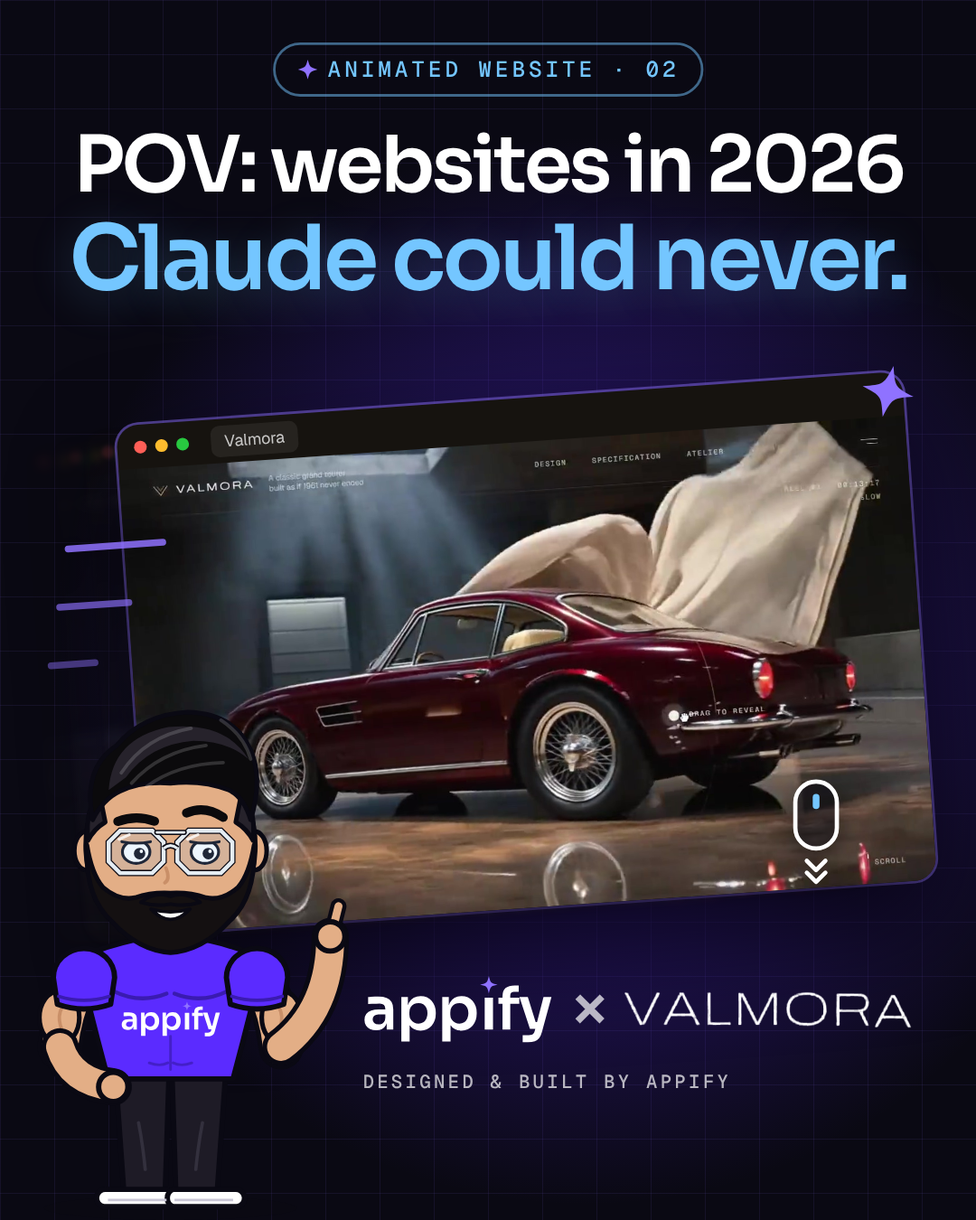
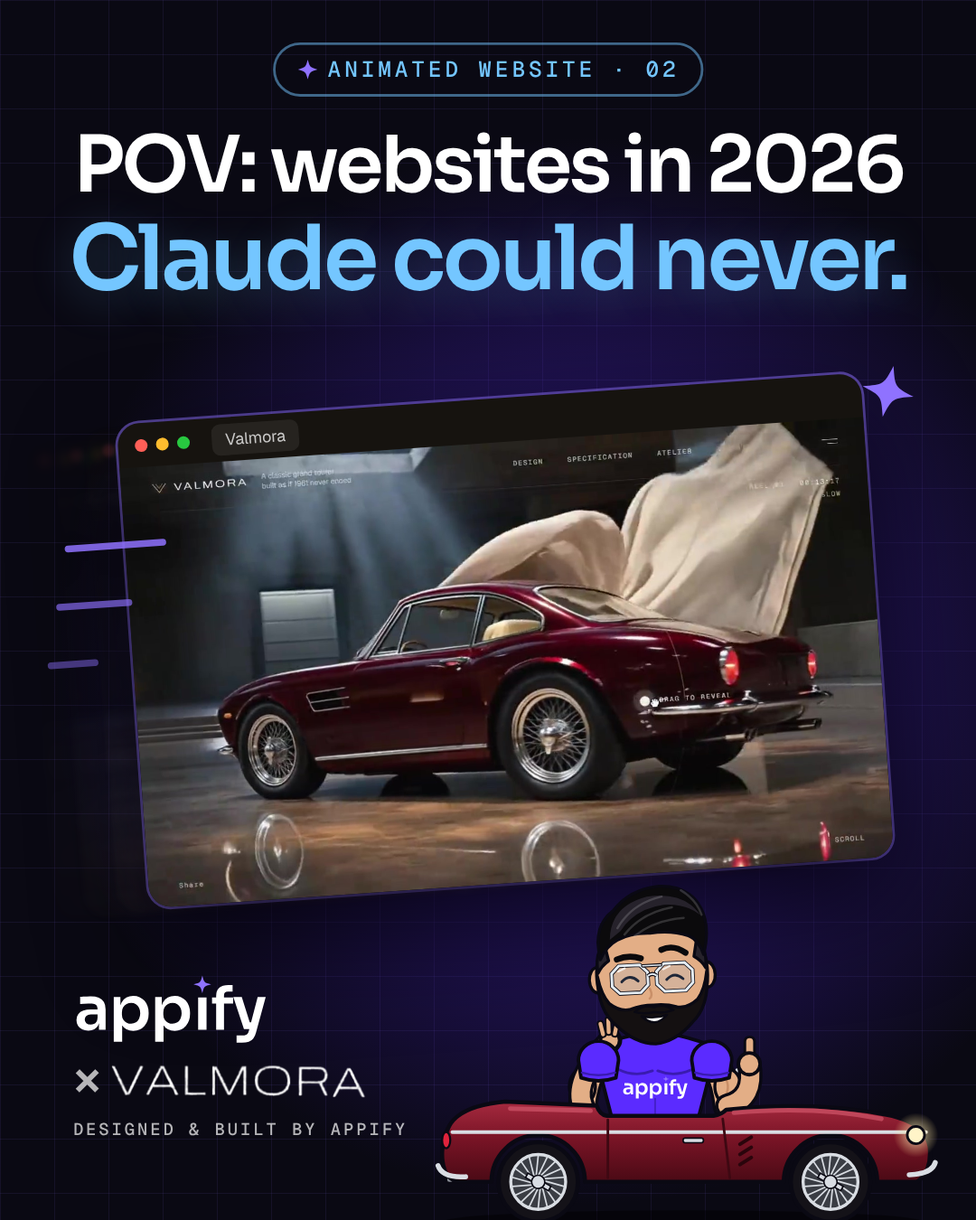
Valmora reel: Dev drives in, $10,000-look punchline
Replace the cloth-unveil ending with Dev screeching in a cartoon classic spider and
'Looks like $10,000. Costs from $500.'; Dev in the car on the thumbnails too.

Claude-Session: https://claude.ai/code/session_01J8CdFv3swMV9cdtzd73STo

Changed region(s): [[0.0306, 0.28, 0.9778, 0.9956]]

diff --git a/appify-classiccars/src/Main.jsx b/appify-classiccars/src/Main.jsx
@@ -1,11 +1,12 @@
 // "POV: websites in 2026 / Claude could never do this." Silent (the user adds trending audio in-app). The user's screen recording of the Valmora site.
-// One idea: the unveil. The car sits under its cover through the hook, the cover comes off on the drop, every section gets
-// one bar with a punch-in. Then the window pulls back, a cover falls over it, and on the end card the cover whips off the price.
+// The car sits under its cover through the hook, the cover comes off on the drop, every section gets one bar with a punch-in.
+// Then the window pulls back ("websites that look like they cost $10,000"), Dev screeches in driving a classic spider,
+// and the punchline lands: "costs from $500", DM "ANIMATED WEBSITE".
 import { AbsoluteFill, Img, interpolate, spring, staticFile, useCurrentFrame, useVideoConfig, Easing } from "remotion";
 import { SRC_FRAMES, DROP, STATEMENT, END, MAP, SECTIONS, CHIPS, CUTS } from "./timing.js";
 import { useFonts, clamp, easeOut, easeIn, shake, Flash, Grain, Vignette } from "./fx.jsx";
 import { WORDMARK, sparkPath } from "./brand.js";
-import { Dev } from "./Dev.jsx";
+import { DevCar } from "./Car.jsx";
 
 const C = { ink: "#0A0913", bg: "#100E0C", gold: "#E8D3A3", cream: "#EDE6D8", wine: "#7A1426", uv: "#5B2BFF", iris: "#8F72FF" };
 const D = { fontFamily: "Display", fontWeight: 600, letterSpacing: "-0.04em", lineHeight: 1 };
@@ -82,29 +83,6 @@ function Pov({ f, W, H }) {
   );
 }
 
-// the car cover: a cream drape with folds and a rippling hem. lift 0..1 = whipped off up and to the right
-function Cloth({ w, h, t = 0, lift = 0, id = "c" }) {
-  const n = 7, amp = h * 0.035 * (1 + lift * 3);
-  let hem = "";
-  for (let k = n; k > 0; k--) {
-    const x0 = (k / n) * w * 0.9 + w * 0.05, x1 = ((k - 0.5) / n) * w * 0.9 + w * 0.05, x2 = ((k - 1) / n) * w * 0.9 + w * 0.05;
-    hem += ` Q ${x1} ${h + amp * Math.sin(t / 4 + k * 1.7)} ${x2} ${h - amp * 0.4 * Math.cos(t / 5 + k)}`;
-  }
-  const top = -h * 0.08 - lift * h * 0.3;
-  const d = `M ${w * 0.05} ${h} Q ${-w * 0.03} ${h * 0.5} ${w * 0.1} ${h * 0.14} Q ${w * 0.5} ${top} ${w * 0.9} ${h * 0.14} Q ${w * 1.03} ${h * 0.5} ${w * 0.95} ${h}` + hem + " Z";
-  // irregular soft folds, slightly diagonal, so it reads as fabric and not a radiator
-  const folds = [[0, "#D8CCB4"], [0.08, "#F3ECDD"], [0.19, "#D2C4A8"], [0.24, "#EEE6D5"], [0.38, "#F5EFE2"], [0.47, "#CFC0A3"], [0.55, "#ECE3D1"], [0.69, "#F4EDDF"], [0.78, "#D4C6AA"], [0.86, "#EFE7D7"], [1, "#CBBB9D"]];
-  return (
-    <svg width={w} height={h * 1.1} viewBox={`0 ${-h * 0.1} ${w} ${h * 1.2}`} style={{ overflow: "visible", filter: `drop-shadow(0 30px 40px rgba(0,0,0,.55)) blur(${lift * 5}px)` }}>
-      <defs>
-        <linearGradient id={id + "f"} x1="0" x2="1" gradientTransform={`rotate(${8 + lift * 20} .5 .5)`}>{folds.map(([o, c], k) => <stop key={k} offset={o} stopColor={c} />)}</linearGradient>
-        <linearGradient id={id + "s"} x1="0" x2="0" y1="0" y2="1"><stop offset="0" stopColor="#fff" stopOpacity=".35" /><stop offset=".5" stopColor="#fff" stopOpacity="0" /><stop offset="1" stopColor="#5A4A35" stopOpacity=".45" /></linearGradient>
-      </defs>
-      <path d={d} fill={`url(#${id}f)`} />
-      <path d={d} fill={`url(#${id}s)`} />
-    </svg>
-  );
-}
 // a showroom: dark hall, one cool skylight cone, warm floor glow
 const Hall = ({ t }) => (
   <>
@@ -114,73 +92,85 @@ const Hall = ({ t }) => (
   </>
 );
 
-// ── 2 · pull back: this is an Appify animated website. A cover falls over it ──────────────────────────
-function Statement({ f, W, H }) {
-  const t = f - STATEMENT, back = interpolate(t, [0, 18], [0, 1], { ...clamp, easing: Easing.bezier(0.65, 0, 0.35, 1) });
+// ── 2 · "looks like it cost $10,000": the window pulls back, Dev screeches in, "costs from $500" ────────
+const ARRIVE = 34, STOP = 56;                  // relative to STATEMENT
+const CAR_W = 960, CAR_X = 60, CAR_Y = 1330;
+function Finale({ f, W, H }) {
+  const t = f - STATEMENT, e = f - END;
+  const back = interpolate(t, [0, 18], [0, 1], { ...clamp, easing: Easing.bezier(0.65, 0, 0.35, 1) });
+  const out = interpolate(e, [0, 7], [0, 1], { ...clamp, easing: easeIn });
   const i = interpolate(t, [0, 90], [600, 712], clamp);
-  const drop = interpolate(t, [50, 64], [0, 1], { ...clamp, easing: easeIn });
-  const settle = t >= 64 ? Math.exp(-(t - 64) / 5) * Math.sin((t - 64) / 2) : 0;
-  const bw = interpolate(back, [0, 1], [1052, 800]);
+  // the drive-in: fast, then a hard brake with the nose dipping and rocking back
+  const drive = interpolate(t, [ARRIVE, STOP], [0, 1], { ...clamp, easing: Easing.bezier(0.2, 0.7, 0.3, 1) });
+  const x = interpolate(drive, [0, 1], [-1150, CAR_X]);
+  const st = t - STOP, rock = st >= 0 ? 2.6 * Math.exp(-st / 6) * Math.cos(st / 2.2) : 0;
+  const rot = (x + 1150) / 0.78 * 0.9;           // wheel turns with the distance travelled
+  const idle = st > 12 ? Math.sin(t * 2.4) * 1.2 : 0;
+  const moving = t >= ARRIVE && t < STOP;
+  const beep = [130, 146].find((b) => e >= b && e < b + 12);
+  const A = sp(t, 12, 10, 300), A2 = sp(t, 20, 9, 300);
   return (
     <AbsoluteFill style={{ background: C.bg }}>
       <Hall t={t} />
       <Stage W={W} H={H}>
-        <div style={{ position: "absolute", left: 0, right: 0, top: 300, textAlign: "center" }}>
-          <div style={{ ...D, fontSize: 96, color: "#fff", ...pop(sp(t, 12, 10, 300)) }}>This is an <span style={{ color: C.gold }}>Appify</span></div>
-          <div style={{ ...D, fontSize: 132, color: "#fff", marginTop: 14, ...pop(sp(t, 20, 9, 300), 1.6) }}>animated website.</div>
+        {/* line 1: the claim */}
+        <div style={{ position: "absolute", left: 0, right: 0, top: 260, textAlign: "center", opacity: 1 - out, transform: `translateY(${-out * 60}px)` }}>
+          <div style={{ ...D, fontSize: 84, color: "#fff", ...pop(A) }}>Websites that look like</div>
+          <div style={{ ...D, fontSize: 104, color: C.gold, marginTop: 14, textShadow: "0 10px 50px rgba(232,211,163,.3)", ...pop(A2, 1.6) }}>they cost $10,000.</div>
         </div>
-        <div style={{ position: "absolute", left: interpolate(back, [0, 1], [14, 140]), top: interpolate(back, [0, 1], [590, 760]) }}>
-          <Browser i={i} w={bw} style={{ transform: `rotate(${back * -2}deg)` }} />
-        </div>
-        {t >= 48 && (
-          <div style={{ position: "absolute", left: 100, top: interpolate(drop, [0, 1], [-700, 700]) + settle * 14, transform: `rotate(-2deg) scaleY(${1 - settle * 0.03})`, transformOrigin: "50% 100%" }}>
-            <Cloth w={880} h={560} t={t} id="st" />
+        {/* line 2: the price */}
+        {e >= 0 && (
+          <div style={{ position: "absolute", left: 0, right: 0, top: 200, textAlign: "center" }}>
+            <div style={{ ...D, fontSize: 76, color: "#fff", ...pop(sp(e, 4, 10, 300)) }}>Looks like <span style={{ color: "rgba(255,255,255,.55)" }}>$10,000.</span></div>
+            <div style={{ ...D, fontSize: 170, color: C.gold, marginTop: 4, textShadow: "0 10px 60px rgba(232,211,163,.4)", ...pop(sp(e, 11, 8, 300), 1.8) }}><span style={{ fontSize: 64, color: "#fff", verticalAlign: "0.9em", marginRight: 16 }}>costs from</span>$500</div>
           </div>
         )}
-        {t >= 64 && t < 72 && <AbsoluteFill style={{ background: "radial-gradient(ellipse 40% 6% at 50% 68%, rgba(255,255,255,.18), transparent)" }} />}
-      </Stage>
-    </AbsoluteFill>
-  );
-}
-
-// ── 3 · end card: the cover whips off the price ───────────────────────────────────────────────────────
-function EndCard({ f, W, H }) {
-  const t = f - END, devP = sp(t, 2, 13, 200), cta = sp(t, 32, 9, 260), pulse = 1 + 0.025 * Math.sin(Math.max(0, t - 42) / 4);
-  const dw = 400, dx = 60, dy = 1920 - 330 - dw * 830 / 420 + 40;
-  const lift = interpolate(t, [14, 28], [0, 1], { ...clamp, easing: easeIn });
-  const price = sp(t, 16, 9, 280);
-  return (
-    <AbsoluteFill style={{ background: C.bg }}>
-      <Hall t={t} />
-      <Stage W={W} H={H}>
-        <div style={{ position: "absolute", left: 0, right: 0, top: 200, textAlign: "center" }}>
-          <div style={{ ...D, fontSize: 68, color: "#fff", ...pop(sp(t, 4, 10, 300)) }}>Animated websites</div>
-          <div style={{ ...D, fontSize: 170, color: C.gold, marginTop: 6, textShadow: `0 10px ${40 + 30 * price}px rgba(232,211,163,.35)`, transform: `scale(${interpolate(price, [0, 1], [0.92, 1])})` }}><span style={{ fontSize: 64, color: "#fff", verticalAlign: "0.9em", marginRight: 16 }}>from</span>$500</div>
-        </div>
-        {lift < 1 && (
-          <div style={{ position: "absolute", left: 170, top: 230 - lift * 900, transform: `translateX(${lift * 620}px) rotate(${lift * 38}deg) skewX(${lift * -14}deg)`, transformOrigin: "0% 100%", opacity: 1 - lift * 0.3 }}>
-            <Cloth w={740} h={300} t={t} lift={lift} id="ec" />
+        {/* the site, pulled back */}
+        {out < 1 && (
+          <div style={{ position: "absolute", left: interpolate(back, [0, 1], [14, 160]), top: interpolate(back, [0, 1], [590, 600]) - out * 400, opacity: 1 - out, transform: `scale(${1 - out * 0.4})` }}>
+            <Browser i={i} w={interpolate(back, [0, 1], [1052, 760])} style={{ transform: `rotate(${back * -2}deg)` }} />
           </div>
         )}
-        <div style={{ position: "absolute", left: 0, right: 0, top: 560, display: "grid", justifyItems: "center", transform: `scale(${interpolate(cta, [0, 1], [1.5, 1]) * pulse})`, opacity: Math.min(1, cta * 2) }}>
-          <div style={{ padding: "22px 50px", borderRadius: 30, background: C.cream, textAlign: "center", boxShadow: "0 20px 60px rgba(232,211,163,.25)" }}>
-            <div style={{ ...M, fontSize: 26, color: C.wine, letterSpacing: "0.2em" }}>DM</div>
-            <div style={{ ...D, fontSize: 74, color: C.ink, marginTop: 6 }}>“ANIMATED WEBSITE”</div>
-            <div style={{ ...UI, fontSize: 30, color: C.wine, marginTop: 10 }}>for a website like this</div>
-          </div>
-        </div>
-        <div style={{ position: "absolute", right: 70, top: 1120, display: "grid", justifyItems: "end", gap: 14, ...rise(sp(t, 42, 12, 220)) }}>
-          <svg viewBox={WORDMARK.viewBox} width={330} height={330 * 1167 / 3224}><path d={WORDMARK.letters} fill="#fff" /><path d={WORDMARK.spark} fill={C.gold} /></svg>
-          <div style={{ ...M, fontSize: 24, color: "rgba(255,255,255,.75)" }}>@appifylb</div>
-          <div style={{ ...UI, fontWeight: 400, fontSize: 26, color: "rgba(255,255,255,.6)", marginTop: 10, textAlign: "right", lineHeight: 1.35 }}>Valmora · designed & built by Appify<br />a concept marque, imagery illustrative</div>
-        </div>
-        <div style={{ position: "absolute", left: dx, top: dy, transform: `translateY(${(1 - Math.min(1, devP)) * 700}px)` }}>
-          <Dev width={dw} point={1} brow={16} lid={0.06} smile={1} look={4} happy={t > 24 ? 1 : 0} tilt={Math.sin(t / 8) * 2} />
-        </div>
-        {t >= 16 && t < 40 && [0, 1, 2, 3, 4].map((k) => {
-          const g = interpolate(t, [16 + k * 2, 26 + k * 2, 36 + k], [0, 1, 0], clamp);
-          return <Spark key={k} size={30 + (k % 3) * 18} style={{ position: "absolute", left: [230, 820, 330, 900, 560][k], top: [300, 280, 470, 430, 250][k], opacity: g, transform: `scale(${g}) rotate(${t * 4}deg)` }} />;
+        {e >= 0 && (() => {
+          const cta = sp(e, 28, 9, 260), pulse = 1 + 0.025 * Math.sin(Math.max(0, e - 40) / 4);
+          return (
+            <>
+              <div style={{ position: "absolute", left: 0, right: 0, top: 560, display: "grid", justifyItems: "center", transform: `scale(${interpolate(cta, [0, 1], [1.5, 1]) * pulse})`, opacity: Math.min(1, cta * 2) }}>
+                <div style={{ padding: "22px 50px", borderRadius: 30, background: C.cream, textAlign: "center", boxShadow: "0 20px 60px rgba(232,211,163,.25)" }}>
+                  <div style={{ ...M, fontSize: 26, color: C.wine, letterSpacing: "0.2em" }}>DM</div>
+                  <div style={{ ...D, fontSize: 74, color: C.ink, marginTop: 6 }}>“ANIMATED WEBSITE”</div>
+                  <div style={{ ...UI, fontSize: 30, color: C.wine, marginTop: 10 }}>for a website like this</div>
+                </div>
+              </div>
+              <div style={{ position: "absolute", left: 0, right: 0, top: 850, display: "grid", justifyItems: "center", gap: 12, ...rise(sp(e, 40, 12, 220)) }}>
+                <div style={{ display: "flex", alignItems: "center", gap: 22 }}>
+                  <svg viewBox={WORDMARK.viewBox} width={250} height={250 * 1167 / 3224}><path d={WORDMARK.letters} fill="#fff" /><path d={WORDMARK.spark} fill={C.gold} /></svg>
+                  <div style={{ ...M, fontSize: 26, color: "rgba(255,255,255,.75)" }}>@appifylb</div>
+                </div>
+                <div style={{ ...UI, fontWeight: 400, fontSize: 24, color: "rgba(255,255,255,.55)" }}>Valmora · a concept marque, designed & built by Appify</div>
+              </div>
+            </>
+          );
+        })()}
+        {/* speed lines + tyre smoke */}
+        {moving && [0, 1, 2, 3].map((k) => <i key={k} style={{ position: "absolute", left: x - 200 + k * 30, top: CAR_Y + 60 + k * 62, width: 220 - k * 30, height: 9, borderRadius: 9, background: C.gold, opacity: 0.7 * (1 - drive) + 0.2 }} />)}
+        {t >= STOP - 8 && t < STOP + 30 && [0, 1, 2, 3, 4, 5].map((k) => {
+          const a = t - (STOP - 8) - k * 2, g = interpolate(a, [0, 26], [0, 1], clamp);
+          if (a < 0) return null;
+          return <i key={k} style={{ position: "absolute", left: CAR_X + 120 - g * (90 + k * 30), top: CAR_Y + 250 - g * (40 + k * 12), width: 80 + g * 120, height: 80 + g * 120, borderRadius: 999, background: "rgba(230,224,214,.9)", opacity: 0.55 * (1 - g), filter: "blur(10px)" }} />;
         })}
+        {/* exhaust puffs while it idles */}
+        {st > 10 && [0, 1, 2].map((k) => {
+          const a = ((t + k * 9) % 27) / 27;
+          return <i key={k} style={{ position: "absolute", left: CAR_X + 30 - a * 120, top: CAR_Y + 270 - a * 50, width: 30 + a * 60, height: 30 + a * 60, borderRadius: 99, background: "rgba(220,214,204,.8)", opacity: 0.4 * (1 - a), filter: "blur(6px)" }} />;
+        })}
+        <div style={{ position: "absolute", left: x, top: CAR_Y }}>
+          <DevCar width={CAR_W} rot={rot} pitch={rock} bounce={idle} wave={1} waveAng={Math.sin(t / 3) * 22} thumbs={1} tilt={Math.sin(t / 7) * 3}
+            face={{ brow: 16, lid: 0.04, smile: 1, look: moving ? 8 : 0, happy: st > 14 ? 1 : 0, shock: moving ? 0.5 : 0 }} />
+        </div>
+        {beep && (
+          <div style={{ position: "absolute", left: CAR_X + 700, top: CAR_Y - 150, transform: `rotate(-10deg) scale(${interpolate(e - beep, [0, 3, 12], [0.6, 1.1, 1], clamp)})`, ...D, fontSize: 64, color: "#fff", textShadow: `0 0 0 ${C.wine}, 4px 4px 0 ${C.wine}` }}>BEEP BEEP!</div>
+        )}
       </Stage>
     </AbsoluteFill>
   );
@@ -190,7 +180,7 @@ export const Main = () => {
   useFonts([["Display", "Sora-600.ttf", { weight: "600" }], ["Mono", "GeistMono-500.ttf"], ["UI", "Geist-600.ttf", { weight: "600" }], ["UI", "Geist-400.ttf", { weight: "400" }]]);
   const f = useCurrentFrame();
   const { width: W, height: H } = useVideoConfig();
-  const scenes = [Pov, Statement, EndCard];
+  const scenes = [Pov, Finale];
   const i = CUTS.filter((c) => f >= c).length;
   const at = i ? CUTS[i - 1] : 0, inCut = i > 0 && f < at + 9;
   const p = interpolate(f, [at, at + 9], [0, 1], { ...clamp, easing: easeIn });

diff --git a/appify-classiccars/src/Cover.jsx b/appify-classiccars/src/Cover.jsx
@@ -1,17 +1,17 @@
 // Thumbnail: "Animated website 02". The hook, the site in a browser window with motion trails and a scroll cursor
-// (so it reads as animated), Dev standing in front of it, and appify × VALMORA. Same grid template as 01.
+// (so it reads as animated), Dev driving past it in a classic spider, and appify × VALMORA. Same grid template as 01.
 // Everything that matters sits in the centre 1080x1440 band (the 3:4 profile-grid crop).
 import { AbsoluteFill, Img, staticFile, useVideoConfig } from "remotion";
 import { useFonts } from "./fx.jsx";
 import { WORDMARK, sparkPath } from "./brand.js";
-import { Dev } from "./Dev.jsx";
+import { DevCar } from "./Car.jsx";
 
 const C = { ink: "#0A0913", uv: "#5B2BFF", iris: "#8F72FF", sky: "#74C6FF" };
 const D = { fontFamily: "Display", fontWeight: 600, letterSpacing: "-0.04em", lineHeight: 0.98 };
 const M = { fontFamily: "Mono", letterSpacing: "0.16em", textTransform: "uppercase" };
 const UI = { fontFamily: "UI", fontWeight: 600 };
 const Spark = ({ size, color, style }) => <svg width={size} height={size} viewBox="0 0 100 100" style={style}><path d={sparkPath(50, 50, 48, 0.22)} fill={color} /></svg>;
-const WIN_W = 930, IMG_H = (WIN_W * 756) / 1280;
+const WIN_W = 880, IMG_H = (WIN_W * 756) / 1280;
 const Window = ({ ghost = 0 }) => (
   <div style={{ width: WIN_W, borderRadius: 26, overflow: "hidden", background: "#16130F", boxShadow: ghost ? "none" : "0 50px 120px rgba(0,0,0,.7), 0 0 0 3px rgba(143,114,255,.55)" }}>
     <div style={{ height: 52, display: "flex", alignItems: "center", gap: 10, padding: "0 20px" }}>
@@ -26,7 +26,6 @@ export const Cover = () => {
   useFonts([["Display", "Sora-600.ttf", { weight: "600" }], ["Mono", "GeistMono-500.ttf"], ["UI", "Geist-600.ttf", { weight: "600" }], ["UI", "Geist-400.ttf", { weight: "400" }]]);
   const { width: W, height: H } = useVideoConfig();
   const k = Math.min(1, H / 1440), bt = (H - 1440 * k) / 2;
-  const devW = 330, devH = devW * 830 / 420, feet = 1430, dx = 0, dy = feet - devH * 0.98;
   return (
     <AbsoluteFill style={{ background: C.ink, overflow: "hidden" }}>
       <AbsoluteFill style={{ backgroundImage: "linear-gradient(rgba(143,114,255,.09) 1.5px, transparent 1.5px), linear-gradient(90deg, rgba(143,114,255,.09) 1.5px, transparent 1.5px)", backgroundSize: "60px 60px", backgroundPosition: "540px 0" }} />
@@ -51,19 +50,19 @@ export const Cover = () => {
         <div style={{ position: "absolute", left: 120, top: 470, transform: "rotate(-4deg)" }}><Window /></div>
         {/* speed lines + scroll cursor */}
         {[0, 1, 2].map((i) => <i key={i} style={{ position: "absolute", left: 40 - i * 10, top: 640 + i * 70, width: 120 - i * 30, height: 8, borderRadius: 9, background: C.iris, opacity: 0.85 - i * 0.2, transform: "rotate(-4deg)" }} />)}
-        <div style={{ position: "absolute", left: 900, top: 920, display: "grid", justifyItems: "center", gap: 8 }}>
-          <div style={{ width: 54, height: 84, borderRadius: 30, border: "5px solid #fff", display: "grid", justifyItems: "center", paddingTop: 12, background: "rgba(10,9,19,.55)", boxShadow: "0 10px 30px rgba(0,0,0,.5)" }}><i style={{ width: 8, height: 18, borderRadius: 9, background: C.sky }} /></div>
-          <svg width="30" height="34" viewBox="0 0 30 34"><path d="M4 4 L15 15 L26 4 M4 18 L15 29 L26 18" stroke="#fff" strokeWidth="5" fill="none" strokeLinecap="round" strokeLinejoin="round" /></svg>
-        </div>
-        {/* appify × VALMORA */}
-        <div style={{ position: "absolute", left: 390, right: 40, top: 1150, display: "flex", alignItems: "center", gap: 22 }}>
+        {/* appify × VALMORA, stacked on the left */}
+        <div style={{ position: "absolute", left: 50, top: 1150, display: "grid", gap: 16 }}>
           <svg viewBox={WORDMARK.viewBox} width={230} height={230 * 1167 / 3224}><path d={WORDMARK.letters} fill="#fff" /><path d={WORDMARK.spark} fill={C.iris} /></svg>
-          <span style={{ ...D, fontSize: 70, color: "rgba(255,255,255,.7)" }}>×</span>
-          <Img src={staticFile("cover/valmora-logo.png")} style={{ width: 340, height: 340 * 151 / 1173 }} />
+          <div style={{ display: "flex", alignItems: "center", gap: 14 }}>
+            <span style={{ ...D, fontSize: 56, color: "rgba(255,255,255,.7)" }}>×</span>
+            <Img src={staticFile("cover/valmora-logo.png")} style={{ width: 300, height: 300 * 151 / 1173 }} />
+          </div>
+          <div style={{ ...M, fontSize: 20, color: "rgba(255,255,255,.7)" }}>designed & built by appify</div>
         </div>
-        <div style={{ position: "absolute", left: 392, top: 1262, ...M, fontSize: 22, color: "rgba(255,255,255,.7)" }}>designed & built by appify</div>
-        {/* Dev in front, pointing at the site */}
-        <div style={{ position: "absolute", left: dx, top: dy }}><Dev width={devW} point={1} brow={16} lid={0.06} smile={1} look={6} /></div>
+        {/* Dev driving in front of the site */}
+        <div style={{ position: "absolute", left: 470, top: 1215 }}>
+          <DevCar width={600} rot={30} wave={1} waveAng={14} thumbs={1} tilt={-3} face={{ brow: 16, lid: 0.04, smile: 1, happy: 1 }} />
+        </div>
         <Spark size={64} color={C.iris} style={{ position: "absolute", left: 980, top: 430, transform: "rotate(12deg)" }} />
       </div>
     </AbsoluteFill>

diff --git a/appify-classiccars/src/Car.jsx b/appify-classiccars/src/Car.jsx
@@ -1,0 +1,64 @@
+// Dev driving a cartoon classic spider in Valmora wine: wire wheels, chrome, no hands on the wheel.
+// Car-local units: 1000 wide, wheels on y = 300. `width` scales it; Dev sits behind the door line and waves.
+import { Dev } from "./Dev.jsx";
+
+const INK = "#0A0913", CHROME = "#D9DDE3";
+const BODY = "M 60 300 C 20 296, 18 230, 40 190 Q 62 150, 150 142 L 330 150 Q 336 168, 350 170 L 560 170 Q 575 168, 585 158 Q 760 140, 900 168 Q 975 182, 985 230 Q 990 280, 960 300 L 882 300 A 92 92 0 0 0 698 300 L 307 300 A 92 92 0 0 0 123 300 L 60 300 Z";
+
+function Wheel({ cx, rot }) {
+  return (
+    <g transform={`translate(${cx} 300)`}>
+      <circle r="78" fill="#141218" stroke={INK} strokeWidth="8" />
+      <circle r="54" fill="#3A3D44" />
+      <g transform={`rotate(${rot})`} stroke={CHROME} strokeWidth="3">
+        {Array.from({ length: 18 }, (_, k) => { const a = (k / 18) * Math.PI * 2; return <line key={k} x1={Math.cos(a) * 12} y1={Math.sin(a) * 12} x2={Math.cos(a + 0.35) * 52} y2={Math.sin(a + 0.35) * 52} />; })}
+      </g>
+      <circle r="54" fill="none" stroke={CHROME} strokeWidth="6" />
+      <g transform={`rotate(${rot})`}><path d="M -26 -5 H 26 V 5 H -26 Z" fill={CHROME} stroke={INK} strokeWidth="3" /><circle r="13" fill={CHROME} stroke={INK} strokeWidth="3" /></g>
+    </g>
+  );
+}
+
+export function DevCar({ width = 900, rot = 0, pitch = 0, bounce = 0, wave = 1, waveAng = 0, thumbs = 1, tilt = 0, face = {} }) {
+  const k = width / 1000;
+  return (
+    <div style={{ position: "relative", width, height: 380 * k }}>
+      <div style={{ position: "absolute", left: 0, top: 0, width: 1000, height: 380, transform: `scale(${k})`, transformOrigin: "0 0" }}>
+        <svg width="1000" height="380" viewBox="0 0 1000 380" style={{ position: "absolute", left: 0, top: 0, overflow: "visible" }}>
+          <ellipse cx="500" cy="378" rx="470" ry="22" fill="rgba(0,0,0,.45)" />
+        </svg>
+        <div style={{ position: "absolute", left: 0, top: 0, width: 1000, height: 380, transform: `translateY(${bounce}px) rotate(${pitch}deg)`, transformOrigin: "790px 300px" }}>
+          {/* windscreen behind Dev */}
+          <svg width="1000" height="380" viewBox="0 0 1000 380" style={{ position: "absolute", left: 0, top: 0, overflow: "visible" }}>
+            <path d="M 578 166 L 606 80 L 642 84 L 614 166 Z" fill="rgba(180,220,255,.28)" stroke={CHROME} strokeWidth="6" strokeLinejoin="round" />
+          </svg>
+          {/* Dev, cut off at the door line */}
+          <div style={{ position: "absolute", left: 0, top: -600, width: 1000, height: 600 + 174, overflow: "hidden" }}>
+            <div style={{ position: "absolute", left: 265, top: 600 - 335 }}>
+              <Dev width={360} wave={wave} waveAng={waveAng} thumbs={thumbs} tilt={tilt} {...face} />
+            </div>
+          </div>
+          <svg width="1000" height="380" viewBox="0 0 1000 380" style={{ position: "absolute", left: 0, top: 0, overflow: "visible" }}>
+            <defs>
+              <linearGradient id="carBody" x1="0" x2="0" y1="0" y2="1"><stop offset="0" stopColor="#A62A3F" /><stop offset=".45" stopColor="#7A1426" /><stop offset="1" stopColor="#4A0A15" /></linearGradient>
+              <radialGradient id="lamp"><stop offset="0" stopColor="#FFF6D0" /><stop offset="1" stopColor="#FFE08A" stopOpacity="0" /></radialGradient>
+            </defs>
+            <rect x="34" y="290" width="44" height="12" rx="6" fill="#8A8E96" stroke={INK} strokeWidth="4" />
+            <path d={BODY} fill="url(#carBody)" stroke={INK} strokeWidth="8" strokeLinejoin="round" />
+            <path d="M 160 156 L 318 160 M 600 164 Q 760 150 890 176" fill="none" stroke="#D0556A" strokeWidth="9" strokeLinecap="round" opacity=".7" />
+            <path d="M 46 202 L 978 202" stroke={CHROME} strokeWidth="7" strokeLinecap="round" />
+            <path d="M 352 178 L 352 292 M 578 176 L 592 292" stroke="#3E0812" strokeWidth="5" strokeLinecap="round" />
+            <rect x="500" y="214" width="40" height="9" rx="4" fill={CHROME} stroke={INK} strokeWidth="3" />
+            <path d="M 612 226 l 22 -14 M 612 246 l 22 -14 M 612 266 l 22 -14" stroke="#2A050C" strokeWidth="7" strokeLinecap="round" />
+            <circle cx="958" cy="208" r="44" fill="url(#lamp)" opacity=".8" />
+            <circle cx="958" cy="208" r="17" fill="#FFF4C8" stroke={INK} strokeWidth="5" />
+            <ellipse cx="34" cy="218" rx="8" ry="16" fill="#E0233C" stroke={INK} strokeWidth="4" />
+            <path d="M 945 286 Q 990 284 996 262 M 72 290 Q 26 292 18 268" fill="none" stroke={CHROME} strokeWidth="10" strokeLinecap="round" />
+            <Wheel cx={215} rot={rot} />
+            <Wheel cx={790} rot={rot} />
+          </svg>
+        </div>
+      </div>
+    </div>
+  );
+}

diff --git a/appify-classiccars/src/timing.js b/appify-classiccars/src/timing.js
@@ -5,8 +5,8 @@ export const DURATION = 630;
 export const BEAT = 15;
 export const SRC_FRAMES = 726;
 export const DROP = 120;         // the cover comes off the car
-export const STATEMENT = 420;    // the window pulls back and the cover falls over it
-export const END = 510;          // the cover whips off the price: DM "ANIMATED WEBSITE"
+export const STATEMENT = 420;    // the window pulls back: "websites that look like they cost $10,000", Dev drives in
+export const END = 510;          // the punchline: "costs from $500", DM "ANIMATED WEBSITE"
 // [reel frame, source frame] keyframes: real time through the hook, then one bar per section (jump cuts between)
 export const MAP = [[0, 0], [DROP, 117], [179, 215], [180, 272], [239, 346], [240, 360], [299, 440], [300, 512], [359, 590], [360, 600], [STATEMENT, 712]];
 export const SECTIONS = [DROP, 180, 240, 300, 360];          // a punch-in + flash on each
@@ -17,4 +17,4 @@ export const CHIPS = [   // [frame, text]: what's on screen in that bar
   [306, "a gauge that reads out the specs"],
   [366, "even the invite form is on brand"],
 ];
-export const CUTS = [STATEMENT, END];
+export const CUTS = [STATEMENT];

diff --git a/appify-classiccars/README.md b/appify-classiccars/README.md
@@ -1,8 +1,8 @@
 # Valmora reel: "POV: websites in 2026 / Claude could never do this."
 
 Edit of the Valmora site screen recording (`source/classiccars.mp4`) into a silent 21 s Reel + Feed cut with a Dev end card
-("Animated websites from $500", DM "ANIMATED WEBSITE"). One idea: the unveil. The cover comes off the car on the drop,
-falls back over the site on the pull-back, and whips off the price on the end card.
+The cover comes off the car on the drop; on the pull-back ("websites that look like they cost $10,000") Dev screeches in
+driving a cartoon classic spider (`src/Car.jsx`), and the punchline lands: "Looks like $10,000. Costs from $500.", DM "ANIMATED WEBSITE".
 
 Extract the frames first (not committed): `mkdir -p public/rec && ffmpeg -t 24.2 -i source/classiccars.mp4 -q:v 2 public/rec/%04d.jpg`
 Then `node render.mjs Reel,Feed` and strip the empty audio track: `ffmpeg -i out/Reel.mp4 -c:v copy -an out/Appify-Valmora-POV-2026-Reel.mp4`.
